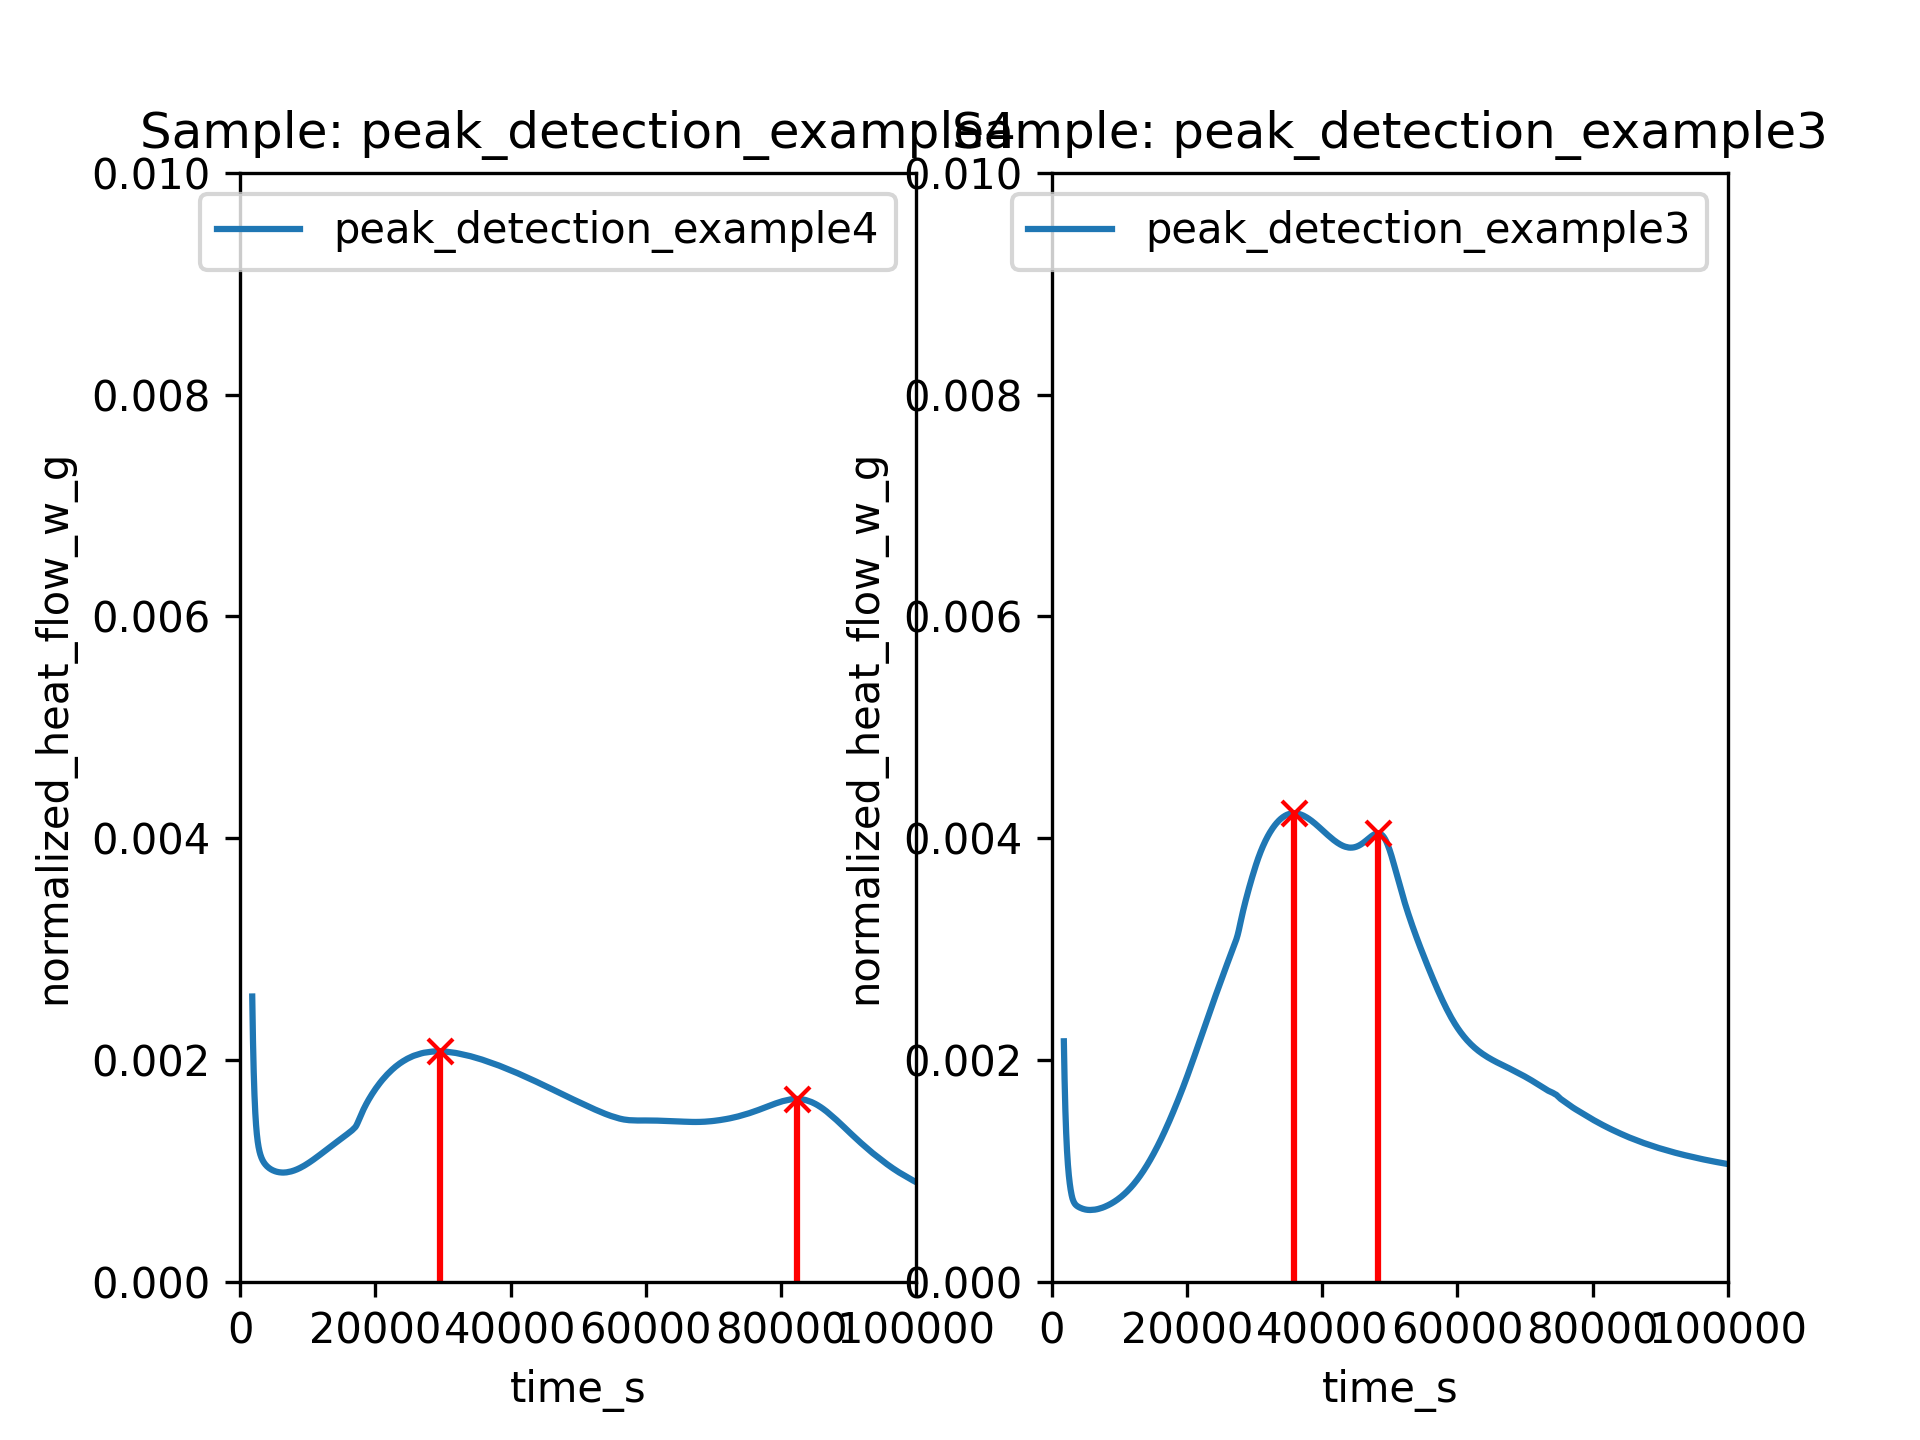
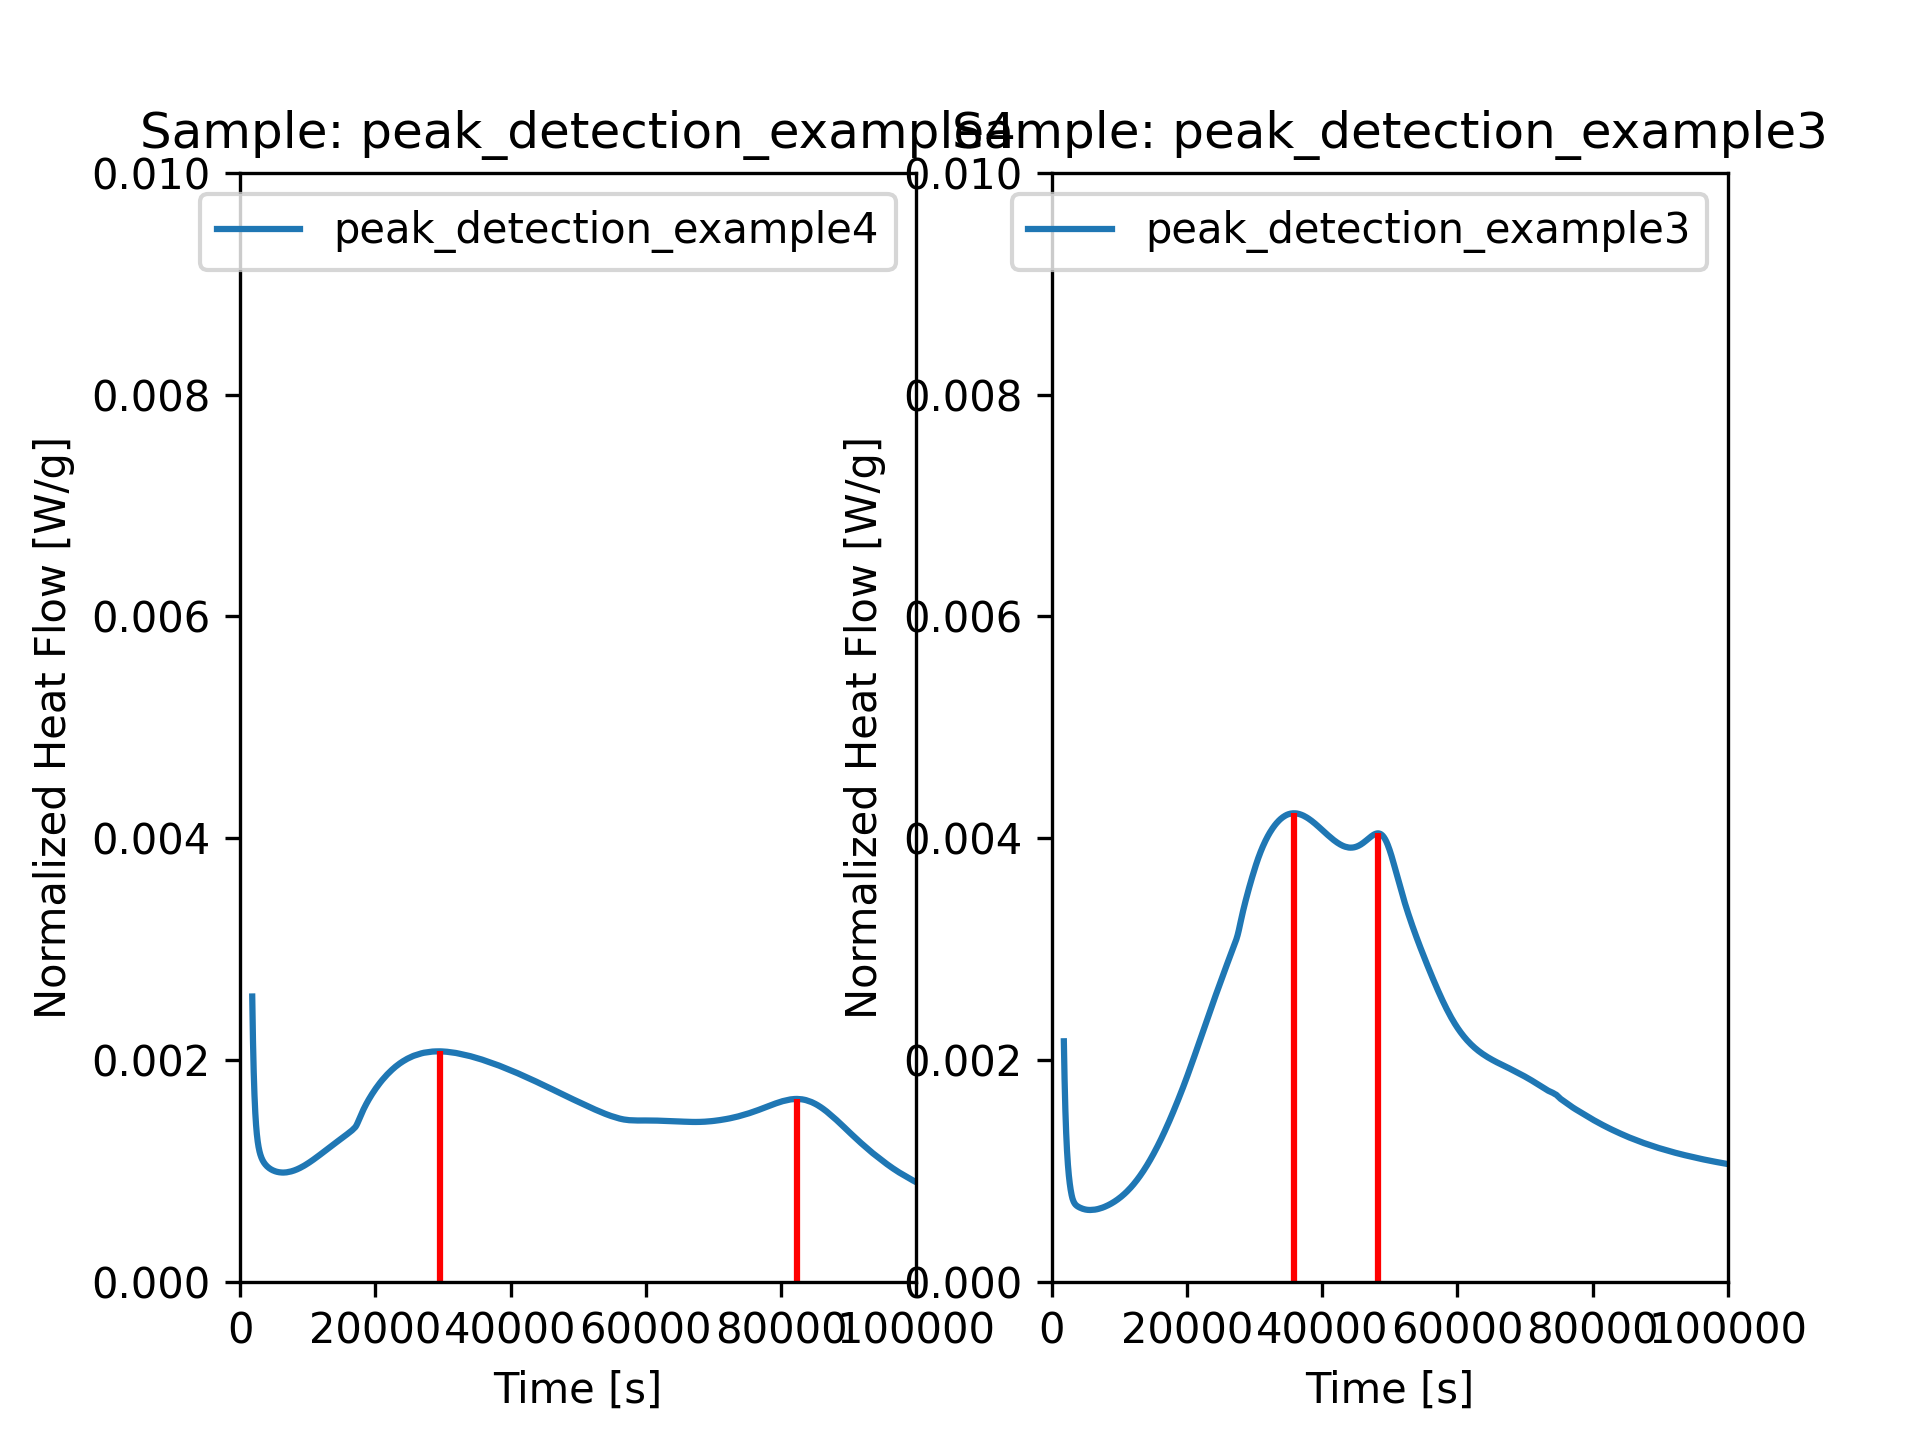
added slightly dirty label and hour plotting in get_peaks show_plot

diff --git a/calocem/tacalorimetry.py b/calocem/tacalorimetry.py
@@ -1018,7 +1018,7 @@ class Measurement:
 
     @staticmethod
     def _plot_peak_positions(
-        data, ax, _age_col, _target_col, peaks, sample, plt_top, plt_right_s
+        data, ax, _age_col, _target_col, peaks, sample, plt_top, plt_right_s, plot_labels
     ):
         """
         Plot detected peaks.
@@ -1026,12 +1026,12 @@ class Measurement:
 
         ax, new_ax = utils.create_base_plot(data, ax, _age_col, _target_col, sample)
 
-        ax.plot(
-            data[_age_col][peaks],
-            data[_target_col][peaks],
-            "x",
-            color="red",
-        )
+        # ax.plot(
+        #     data[_age_col][peaks],
+        #     data[_target_col][peaks],
+        #     "x",
+        #     color="red",
+        # )
 
         ax.vlines(
             x=data[_age_col][peaks],
@@ -1039,6 +1039,18 @@ class Measurement:
             ymax=data[_target_col][peaks],
             color="red",
         )
+
+        if plot_labels:
+            for x, y in zip(data[_age_col][peaks], data[_target_col][peaks]):
+                y = y + 0.0002
+                ax.text(x, y, f"{round(x,2)}", color="red")
+            # ax.text(
+            #     x=data[_age_col][peaks],
+            #     y=data[_target_col][peaks],
+            #     #s=[f"{round(i,2)}" for i in data[_age_col][peaks]],
+            #     s="hallo",
+            #     color="red",
+            # )
 
         limits = {
             "left": ax.get_xlim()[0],
@@ -1079,7 +1091,7 @@ class Measurement:
         ax2.plot(
             data[age_col],
             data["gradient"]  ,
-            label="gradient  ",
+            label="Gradient",
             color="orange"
         )
         ax2.set_yscale("linear")
@@ -1285,6 +1297,8 @@ class Measurement:
         plt_right_s=2e5,
         plt_top=1e-2,
         ax=None,
+        xunit="s",
+        plot_labels=None,
     ) -> pd.DataFrame:
         """
         get DataFrame of peak characteristics.
@@ -1339,9 +1353,17 @@ class Measurement:
 
             # plot?
             if show_plot:
-                self._plot_peak_positions(
-                    data, ax, _age_col, _target_col, peaks, sample, plt_top, plt_right_s
-                )
+                if xunit=="h":
+                    df_copy = data.copy()
+                    df_copy[_age_col] = df_copy[_age_col] / 3600
+                    plt_right_s = plt_right_s / 3600
+                    self._plot_peak_positions(
+                        df_copy, ax, _age_col, _target_col, peaks, sample, plt_top, plt_right_s, plot_labels
+                    )
+                else:
+                    self._plot_peak_positions(
+                        data, ax, _age_col, _target_col, peaks, sample, plt_top, plt_right_s, plot_labels
+                    )
 
             # compile peak characteristics
             peak_characteristics = pd.concat(

diff --git a/examples/example_get_maximum_slope.py b/examples/example_get_maximum_slope.py
@@ -47,8 +47,11 @@ for sample_name in sample_names:
     ax.set_xlim(0, 24)
     ax.set_ylim(0, 0.005)
     ax.set_title("")
+    ax, ax2 = fig.get_axes()
     handles, labels = ax.get_legend_handles_labels()
-    labels = ["Calo Data", "Shifted Gradient"]
+    handles2, labels2 = ax2.get_legend_handles_labels()
+    handles = handles + handles2
+    labels = ["Sample", "Gradient"]
     ax.legend(handles, labels, loc="upper right")
     plt.show()
 # ta.plt.savefig(assetpath / "example_detect_maximum_slope.png")

diff --git a/examples/example_get_peaks.py b/examples/example_get_peaks.py
@@ -35,3 +35,14 @@ df = df.iloc[:,[0,4,5,10]]
 df.to_csv(plotpath / "example_get_peaks.csv", index=False)
 
 # %%
+fig, ax = plt.subplots()
+tam.get_peaks(
+    processparams=processparams,
+    ax=ax,
+    show_plot=True,
+    regex="4",
+    xunit="h",
+    plot_labels=True,
+)
+plt.show()
+# %%
